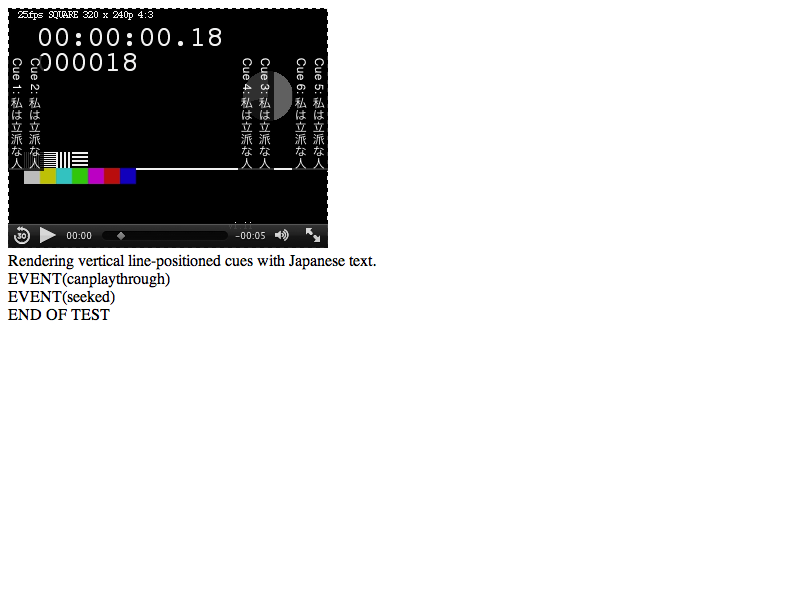
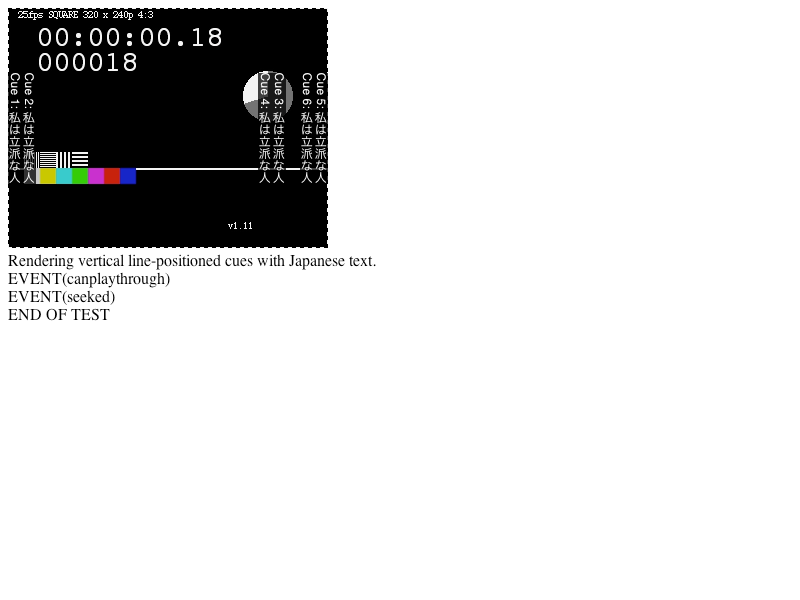
Some media/track tests fail or assert on Mac https://bugs.webkit.org/show_bug.cgi?id=97132
Reviewed by Simon Fraser.

Source/WebCore:

Rationalize the font and padding behavior of cues and cue boxes; ::cue pseudo elements cannot have padding
values applied via CSS (due to padding not being included in the whitelist of applicable CSS properties).
Also, the font values were being applied to the box at one level and the cue at another, leading to incorrect
layout in the snapToLines case. Padding has been removed from the cue, and the font settings are now applied
to the box exclusively.

Additionally, a few drive-by changes were made in TextTrackCue to the return values of displayTreeInternal() &
element(), which previously returned a PassRefPtr<> instead of a plain pointer.

* css/mediaControls.css:
(video::-webkit-media-text-track-container): Move the font size to the display selector.
(video::cue): Remove the display:inline and padding:2px declarations.
(video::-webkit-media-text-track-display): Remove the -webkit-line-content now that the ::cue has no padding.
* html/track/TextTrackCue.cpp:
(WebCore::TextTrackCue::TextTrackCue): The background box is now a span, rather than a forced-inline div.
(WebCore::TextTrackCue::displayTreeInternal): Return a plain pointer.
(WebCore::TextTrackCue::getDisplayTree): Ditto.
(WebCore::TextTrackCue::setFontSize): Set the font on the box, not the cue.
* html/track/TextTrackCue.h:
(WebCore::TextTrackCue::element): Return a plain pointer.
* html/track/TextTrackCueGeneric.cpp:
[…]

diff --git a/LayoutTests/media/track/track-cue-rendering-snap-to-lines-not-set.html b/LayoutTests/media/track/track-cue-rendering-snap-to-lines-not-set.html
@@ -89,10 +89,7 @@
             findMediaElement();
             testTrack = document.querySelector('track');
             video.src = findMediaFile('video', '../content/test');
-
-            // In Chromium it is the enclosure element, which provides the controls height, otherwise the panel;
-            // both are the second child in the shadow DOM.
-            controlsPanelElement = internals.shadowRoot(video).firstChild.firstChild;
+            controlsPanelElement = mediaControlsElement(internals.shadowRoot(video).firstChild, '-webkit-media-controls-panel');
 
             waitForEvent('canplaythrough', function() {
                 cueDisplayContainer = textTrackDisplayElement(video);

diff --git a/Source/WebCore/css/mediaControls.css b/Source/WebCore/css/mediaControls.css
@@ -223,7 +223,6 @@ video::-webkit-media-text-track-container {
     overflow: hidden;
     padding-bottom: 5px;
 
-    font: 22px sans-serif;
     text-align: center;
     color: rgba(255, 255, 255, 1);
 
@@ -242,10 +241,7 @@ video::-webkit-media-text-track-container {
 }
 
 video::cue {
-    display: inline;
-
     background-color: rgba(0, 0, 0, 0.8);
-    padding: 2px 2px;
 }
 
 video::-webkit-media-text-track-display {
@@ -253,6 +249,7 @@ video::-webkit-media-text-track-display {
     overflow: hidden;
     white-space: pre-wrap;
     -webkit-box-sizing: border-box;
+    font: 22px sans-serif;
 }
 
 video::cue(:future) {

diff --git a/LayoutTests/media/track/track-cue-rendering-horizontal.html b/LayoutTests/media/track/track-cue-rendering-horizontal.html
@@ -28,7 +28,7 @@
         <script src=../video-test.js></script>
     </head>
     <body onload="loaded()">
-        <video controls>
+        <video>
             <track src="captions-webvtt/captions-snap-to-lines-set.vtt" kind="captions" default>
         </video>
     </body>

diff --git a/LayoutTests/media/track/track-cue-rendering-vertical.html b/LayoutTests/media/track/track-cue-rendering-vertical.html
@@ -29,7 +29,7 @@
         <script src=../video-test.js></script>
     </head>
     <body onload="loaded()">
-        <video controls>
+        <video>
             <track src="captions-webvtt/captions-snap-to-lines-set.vtt" kind="captions" default>
         </video>
     </body>

diff --git a/Source/WebCore/html/track/TextTrackCue.cpp b/Source/WebCore/html/track/TextTrackCue.cpp
@@ -202,7 +202,7 @@ TextTrackCue::TextTrackCue(ScriptExecutionContext* context, double start, double
     , m_isActive(false)
     , m_pauseOnExit(false)
     , m_snapToLines(true)
-    , m_cueBackgroundBox(HTMLDivElement::create(toDocument(context)))
+    , m_cueBackgroundBox(HTMLSpanElement::create(spanTag, toDocument(context)))
     , m_displayTreeShouldChange(true)
     , m_displayDirection(CSSValueLtr)
 {
@@ -228,11 +228,11 @@ PassRefPtr<TextTrackCueBox> TextTrackCue::createDisplayTree()
     return TextTrackCueBox::create(ownerDocument(), this);
 }
 
-PassRefPtr<TextTrackCueBox> TextTrackCue::displayTreeInternal()
+TextTrackCueBox* TextTrackCue::displayTreeInternal()
 {
     if (!m_displayTree)
         m_displayTree = createDisplayTree();
-    return m_displayTree;
+    return m_displayTree.get();
 }
 
 void TextTrackCue::willChange()
@@ -797,11 +797,11 @@ void TextTrackCue::updateDisplayTree(double movieTime)
     m_cueBackgroundBox->appendChild(referenceTree);
 }
 
-PassRefPtr<TextTrackCueBox> TextTrackCue::getDisplayTree(const IntSize& videoSize)
+TextTrackCueBox* TextTrackCue::getDisplayTree(const IntSize& videoSize)
 {
     RefPtr<TextTrackCueBox> displayTree = displayTreeInternal();
     if (!m_displayTreeShouldChange || !track()->isRendered())
-        return displayTree;
+        return displayTree.get();
 
     // 10.1 - 10.10
     calculateDisplayParameters();
@@ -838,7 +838,7 @@ PassRefPtr<TextTrackCueBox> TextTrackCue::getDisplayTree(const IntSize& videoSiz
 
     // 10.15. Let cue's text track cue display state have the CSS boxes in
     // boxes.
-    return displayTree;
+    return displayTree.get();
 }
 
 void TextTrackCue::removeDisplayTree()
@@ -1202,7 +1202,7 @@ void TextTrackCue::setFontSize(int fontSize, const IntSize&, bool important)
     
     LOG(Media, "TextTrackCue::setFontSize - setting cue font size to %i", fontSize);
 
-    element()->setInlineStyleProperty(CSSPropertyFontSize, String::number(fontSize) + "px", important);
+    displayTreeInternal()->setInlineStyleProperty(CSSPropertyFontSize, String::number(fontSize) + "px", important);
 }
 
 } // namespace WebCore

diff --git a/Source/WebCore/html/track/TextTrackCue.h b/Source/WebCore/html/track/TextTrackCue.h
@@ -35,7 +35,6 @@
 #if ENABLE(VIDEO_TRACK)
 
 #include "EventTarget.h"
-#include "HTMLDivElement.h"
 #include "HTMLElement.h"
 #include <wtf/PassOwnPtr.h>
 #include <wtf/RefCounted.h>
@@ -43,6 +42,7 @@
 namespace WebCore {
 
 class DocumentFragment;
+class HTMLSpanElement;
 class ScriptExecutionContext;
 class TextTrack;
 class TextTrackCue;
@@ -143,8 +143,8 @@ public:
     void setIsActive(bool);
 
     bool hasDisplayTree() const { return m_displayTree; }
-    PassRefPtr<TextTrackCueBox> getDisplayTree(const IntSize& videoSize);
-    PassRefPtr<HTMLDivElement> element() const { return m_cueBackgroundBox; }
+    TextTrackCueBox* getDisplayTree(const IntSize& videoSize);
+    HTMLSpanElement* element() const { return m_cueBackgroundBox.get(); }
 
     void updateDisplayTree(double);
     void removeDisplayTree();
@@ -208,7 +208,7 @@ protected:
     Document* ownerDocument() { return toDocument(m_scriptExecutionContext); }
 
     virtual PassRefPtr<TextTrackCueBox> createDisplayTree();
-    PassRefPtr<TextTrackCueBox> displayTreeInternal();
+    TextTrackCueBox* displayTreeInternal();
 
 private:
     void createWebVTTNodeTree();
@@ -262,7 +262,7 @@ private:
     bool m_pauseOnExit;
     bool m_snapToLines;
 
-    RefPtr<HTMLDivElement> m_cueBackgroundBox;
+    RefPtr<HTMLSpanElement> m_cueBackgroundBox;
 
     bool m_displayTreeShouldChange;
     RefPtr<TextTrackCueBox> m_displayTree;

diff --git a/Source/WebCore/page/CaptionUserPreferencesMac.mm b/Source/WebCore/page/CaptionUserPreferencesMac.mm
@@ -232,7 +232,7 @@ String CaptionUserPreferencesMac::captionsWindowCSS() const
     builder.append(windowStyle);
     builder.append(getPropertyNameString(CSSPropertyPadding));
     builder.append(": .4em !important;");
-    
+
     return builder.toString();
 }
 
@@ -253,20 +253,7 @@ String CaptionUserPreferencesMac::captionsBackgroundCSS() const
     CGFloat opacity = MACaptionAppearanceGetBackgroundOpacity(kMACaptionAppearanceDomainUser, &behavior);
     if (!important)
         important = behavior == kMACaptionAppearanceBehaviorUseValue;
-    String backgroundStyle = colorPropertyCSS(CSSPropertyBackgroundColor, Color(backgroundColor.red(), backgroundColor.green(), backgroundColor.blue(), static_cast<int>(opacity * 255)), important);
-
-    if (!opacity)
-        return backgroundStyle;
-    
-    StringBuilder builder;
-    builder.append(backgroundStyle);
-    builder.append(getPropertyNameString(CSSPropertyPadding));
-    builder.append(": 0px");
-    if (behavior == kMACaptionAppearanceBehaviorUseValue)
-        builder.append(" !important");
-    builder.append(';');
-    
-    return builder.toString();
+    return colorPropertyCSS(CSSPropertyBackgroundColor, Color(backgroundColor.red(), backgroundColor.green(), backgroundColor.blue(), static_cast<int>(opacity * 255)), important);
 }
 
 Color CaptionUserPreferencesMac::captionsTextColor(bool& important) const

diff --git a/Source/WebCore/html/track/TextTrackCueGeneric.cpp b/Source/WebCore/html/track/TextTrackCueGeneric.cpp
@@ -31,8 +31,8 @@
 
 #include "CSSPropertyNames.h"
 #include "CSSValueKeywords.h"
-#include "HTMLDivElement.h"
 #include "HTMLNames.h"
+#include "HTMLSpanElement.h"
 #include "InbandTextTrackPrivateClient.h"
 #include "Logging.h"
 #include "RenderObject.h"
@@ -66,7 +66,7 @@ void TextTrackCueGenericBoxElement::applyCSSProperties(const IntSize& videoSize)
     setInlineStyleProperty(CSSPropertyUnicodeBidi, CSSValueWebkitPlaintext);
     
     TextTrackCueGeneric* cue = static_cast<TextTrackCueGeneric*>(getCue());
-    RefPtr<HTMLDivElement> cueElement = cue->element();
+    RefPtr<HTMLSpanElement> cueElement = cue->element();
 
     float size = static_cast<float>(cue->getCSSSize());
     if (cue->useDefaultPosition()) {
